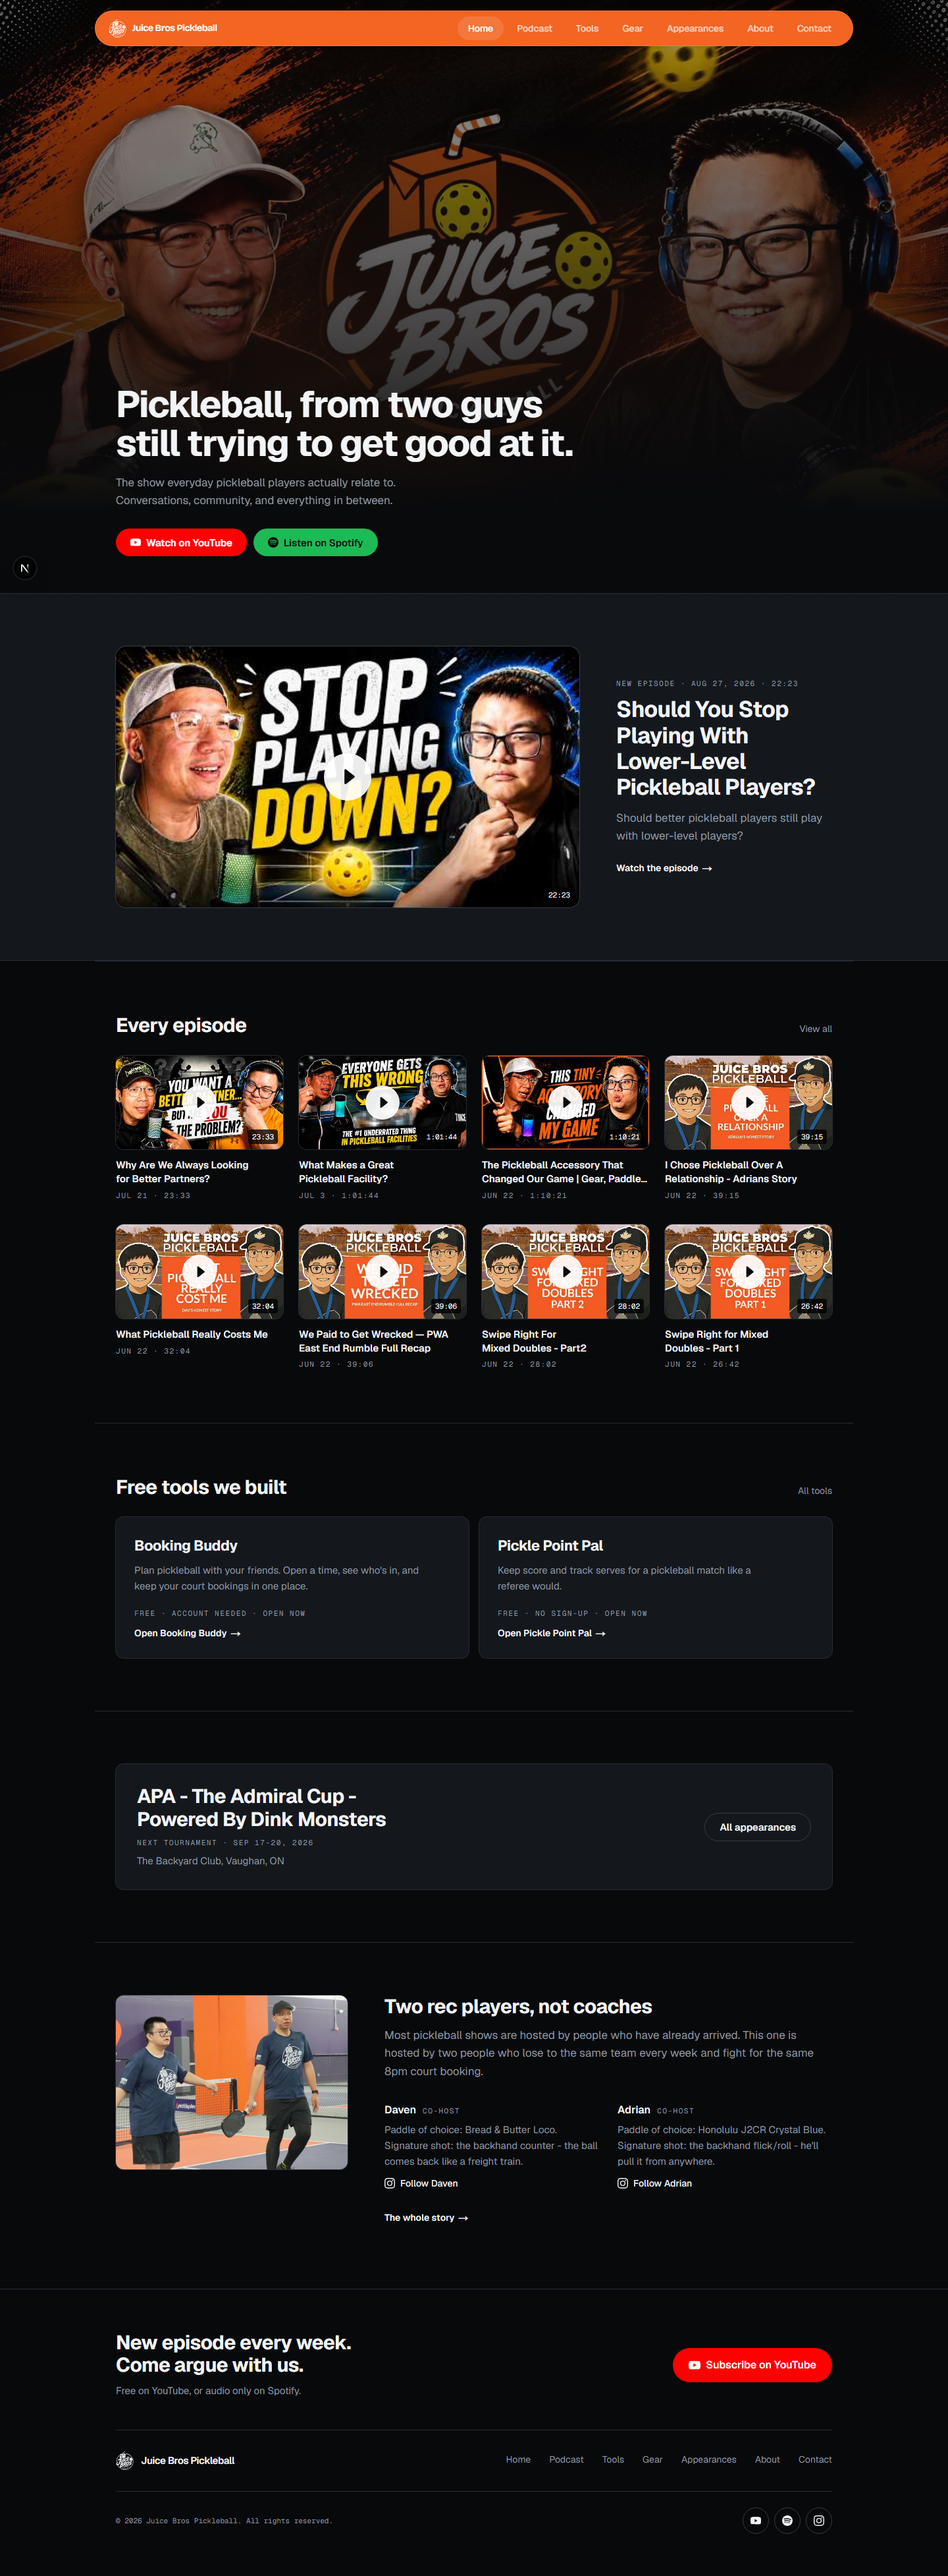
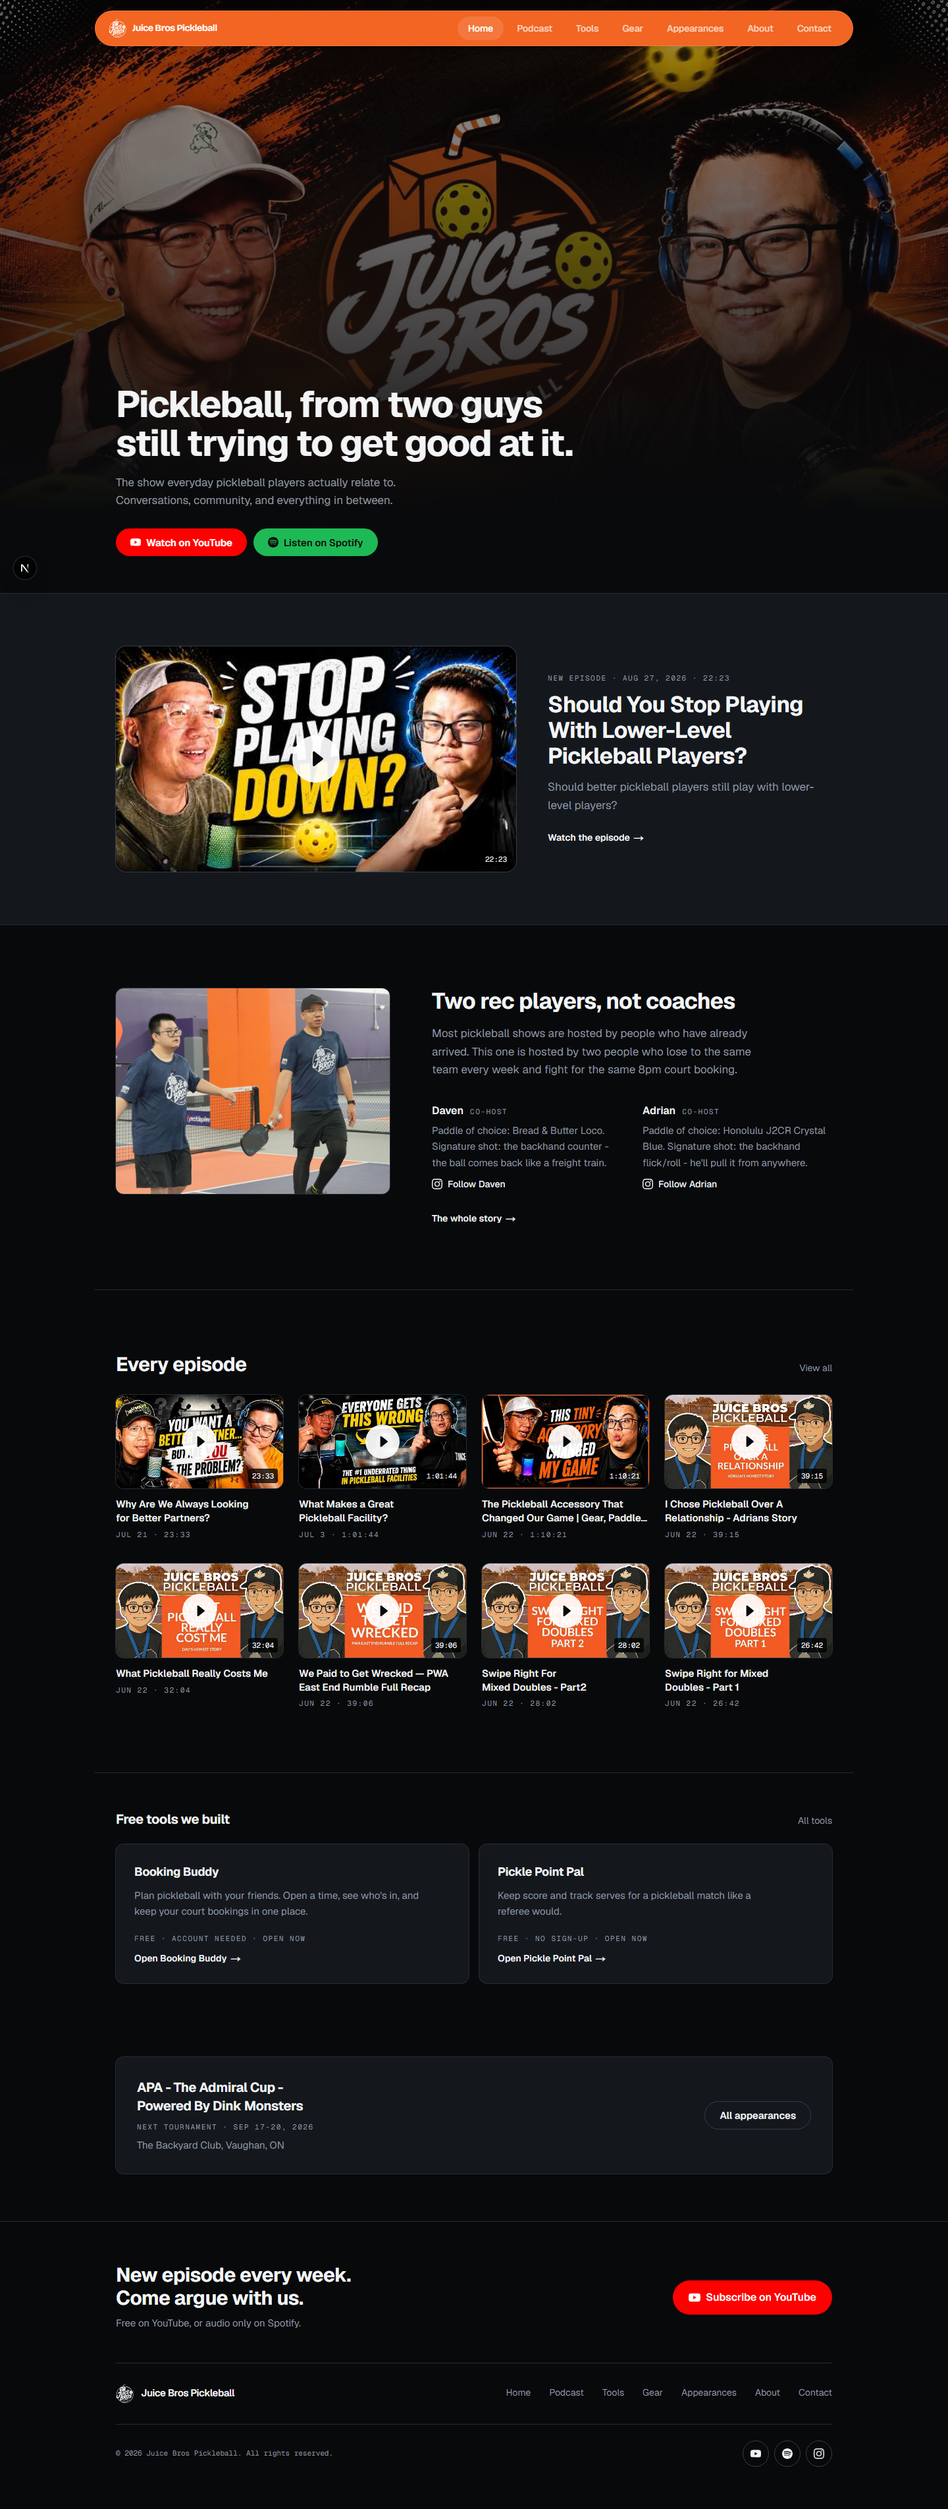
Home: move the hosts up and give the page a rank order
Two changes, both from Adrian. "Two rec players, not coaches" moves from
sixth to third, straight off the Now Playing band: it is the only section
that proves the claim the h1 makes, and at sixth it only ever reached
visitors already convinced. Then: emphasize different sections.

The page had one peak and then a flat plateau — Archive, Free tools, the
tournament, the hosts and Instagram all shipped the same hairline, the
same py-14 sm:py-20 and the same heading size, so nothing outranked
anything. Rank is now encoded in three channels at once, because any one
of them alone reads as an accident:

- Air: major py-16 sm:py-24 (hosts, archive), band py-12 sm:py-16
  lg:py-20, shelf py-10 sm:py-14.
- Heading step: peak clamp(1.5rem,3.4vw,2.125rem) for the Now Playing
  title and the hosts; headline for the archive and the footer close;
  minor 1.25rem for the shelf, with tool names a step below that.
- Composition: the hosts photo widens to 26rem; the Now Playing stage
  settles at 38rem so the title beside it keeps a readable measure
  instead of wrapping to four lines at 1440.

Hairlines now group rather than decorate: one opens the archive, one
opens the shelf, and the three shelf sections run without rules between
them so they read as one supporting zone. The hosts section carries none
at all — the band above it already ends on a border.

DESIGN.md and the surface brief record the three tiers, the hairline
rule, and why the order changed.

diff --git a/src/app/(home)/sections/the-hosts.tsx b/src/app/(home)/sections/the-hosts.tsx
@@ -4,20 +4,29 @@ import { team } from "@/content/team";
 import { InstagramIcon } from "@/components/icons";
 
 /**
- * The two hosts. A category-standard podcast home page carries one, and it is
- * the section that does the positioning work the h1 only gestures at: these
- * are rec players, not coaches.
+ * The two hosts, third on the page and its second peak.
  *
- * The bios in `content/team.ts` are interim copy pending Adrian writing the
- * real ones, and they say so on the page rather than pretending otherwise.
+ * The h1 claims "two guys still trying to get good at it"; this is the only
+ * section that proves it - real names, the on-court photo, the paddle each of
+ * them actually plays and the shot each is known for. Positioning is the one
+ * thing PRODUCT.md says a competitor cannot copy, so it is evidence, not a
+ * footer credit, and it sits directly under the newest episode rather than
+ * below the catalogue where only the already-convinced would reach it.
+ *
+ * It carries no `bx-hair`: it follows the band, whose own bottom border
+ * already draws that line, and a second rule there would double it.
+ *
+ * The page renders each host's `funFact` (paddle and signature shot), which is
+ * real copy. The interim `bio` strings in `content/team.ts` are the About
+ * page's problem, not this section's - nothing here is placeholder.
  */
 export function TheHosts() {
   return (
-    <section className="bx-measure bx-hair py-14 sm:py-20">
+    <section className="bx-measure py-16 sm:py-24">
       {/* The photograph belongs here in this variant. The hero above runs the
           brand banner rather than the on-court shot, so this is the only place
           the two of them appear and it is not a duplicate. */}
-      <div className="grid gap-8 lg:grid-cols-[minmax(0,22rem)_1fr] lg:items-start lg:gap-14">
+      <div className="grid gap-8 lg:grid-cols-[minmax(0,26rem)_1fr] lg:items-start lg:gap-16">
         <figure className="bx-tile aspect-[4/3]">
           {/* eslint-disable-next-line @next/next/no-img-element -- local photo, no next/image optimization needed here */}
           <img
@@ -32,16 +41,16 @@ export function TheHosts() {
         </figure>
 
         <div>
-          <h2 className="bx-h2 text-[clamp(1.375rem,3.2vw,1.875rem)]">
+          <h2 className="bx-h2 text-[clamp(1.5rem,3.4vw,2.125rem)]">
             Two rec players, not coaches
           </h2>
-          <p className="mt-3 text-[1.0625rem] leading-relaxed text-[var(--bx-muted)]">
+          <p className="mt-4 max-w-[46ch] text-[1.0625rem] leading-relaxed text-[var(--bx-muted)]">
             Most pickleball shows are hosted by people who have already arrived.
             This one is hosted by two people who lose to the same team every
             week and fight for the same 8pm court booking.
           </p>
 
-          <dl className="mt-8 grid gap-7 sm:grid-cols-2">
+          <dl className="mt-9 grid gap-8 sm:grid-cols-2">
             {team.map((member) => (
               <div key={member.name}>
                 <dt className="flex items-baseline gap-2.5">

diff --git a/src/app/(home)/sections/free-tools.tsx b/src/app/(home)/sections/free-tools.tsx
@@ -14,9 +14,9 @@ export function FreeTools() {
   if (apps.length === 0) return null;
 
   return (
-    <section className="bx-measure bx-hair py-14 sm:py-20">
+    <section className="bx-measure bx-hair py-10 sm:py-14">
       <div className="flex items-baseline justify-between gap-6">
-        <h2 className="bx-h2 text-[clamp(1.375rem,3.2vw,1.875rem)]">Free tools we built</h2>
+        <h2 className="bx-h2 text-xl">Free tools we built</h2>
         <Link
           href="/tools"
           className="text-sm text-[var(--bx-muted)] transition-colors duration-200 hover:text-[var(--bx-ink)]"
@@ -25,10 +25,10 @@ export function FreeTools() {
         </Link>
       </div>
 
-      <div className="mt-7 grid gap-4 md:grid-cols-2">
+      <div className="mt-6 grid gap-4 md:grid-cols-2">
         {apps.map((app) => (
           <Link key={app.slug} href={app.href} className="bx-panel group flex flex-col p-6 sm:p-7">
-            <h3 className="bx-h2 text-xl transition-colors duration-200 group-hover:text-[var(--bx-muted)] sm:text-[1.375rem]">
+            <h3 className="bx-h2 text-lg transition-colors duration-200 group-hover:text-[var(--bx-muted)]">
               {app.title}
             </h3>
             <p className="mt-2.5 max-w-[46ch] text-[0.9375rem] leading-relaxed text-[var(--bx-muted)]">

diff --git a/src/app/(home)/page.tsx b/src/app/(home)/page.tsx
@@ -6,10 +6,10 @@ import { getEpisodes } from "@/lib/episodes";
 import { getLatestInstagramPosts, INSTAGRAM_POST_COUNT } from "@/lib/instagram";
 import { PhotoHero } from "./sections/photo-hero";
 import { NowPlaying } from "./sections/now-playing";
+import { TheHosts } from "./sections/the-hosts";
 import { Archive } from "./sections/archive";
 import { FreeTools } from "./sections/free-tools";
 import { OnTheRoad } from "./sections/on-the-road";
-import { TheHosts } from "./sections/the-hosts";
 import { FromInstagram } from "./sections/from-instagram";
 import { Foot } from "./sections/foot";
 
@@ -39,10 +39,10 @@ export default async function Home() {
     <div className="bx-dark flex flex-1 flex-col">
       <PhotoHero />
       {newest && <NowPlaying episode={newest} />}
+      <TheHosts />
       <Archive episodes={rest.slice(0, 8)} />
       <FreeTools />
       <OnTheRoad />
-      <TheHosts />
       <FromInstagram posts={instagramPosts} />
       <Foot />
     </div>

diff --git a/src/app/(home)/sections/from-instagram.tsx b/src/app/(home)/sections/from-instagram.tsx
@@ -9,9 +9,9 @@ export function FromInstagram({ posts }: { posts: InstagramPost[] }) {
   if (posts.length === 0) return null;
 
   return (
-    <section className="bx-measure bx-hair py-14 sm:py-20">
+    <section className="bx-measure py-10 sm:py-14">
       <div className="flex items-baseline justify-between gap-6">
-        <h2 className="bx-h2 text-[clamp(1.375rem,3.2vw,1.875rem)]">Between episodes</h2>
+        <h2 className="bx-h2 text-xl">Between episodes</h2>
         <a
           href={siteConfig.links.instagram}
           target="_blank"
@@ -22,7 +22,7 @@ export function FromInstagram({ posts }: { posts: InstagramPost[] }) {
         </a>
       </div>
 
-      <ul className="mt-7 grid grid-cols-3 gap-3 lg:grid-cols-6">
+      <ul className="mt-6 grid grid-cols-3 gap-3 lg:grid-cols-6">
         {posts.map((post) => (
           <li key={post.id}>
             <a

diff --git a/src/app/(home)/sections/on-the-road.tsx b/src/app/(home)/sections/on-the-road.tsx
@@ -12,10 +12,10 @@ export function OnTheRoad() {
   if (!next) return null;
 
   return (
-    <section className="bx-measure bx-hair py-14 sm:py-20">
+    <section className="bx-measure py-10 sm:py-14">
       <div className="bx-panel flex flex-col gap-6 p-6 sm:flex-row sm:items-center sm:justify-between sm:p-8">
         <div>
-          <h2 className="bx-h2 max-w-[26ch] text-[clamp(1.375rem,3.2vw,1.875rem)]">{next.name}</h2>
+          <h2 className="bx-h2 max-w-[26ch] text-xl">{next.name}</h2>
           <p className="bx-meta mt-2.5">
             Next tournament
             <span aria-hidden> · </span>

diff --git a/src/app/(home)/sections/now-playing.tsx b/src/app/(home)/sections/now-playing.tsx
@@ -21,7 +21,7 @@ export function NowPlaying({ episode }: { episode: Episode }) {
   return (
     <section className="bx-band">
       <div className="bx-measure py-12 sm:py-16 lg:py-20">
-        <div className="grid gap-7 lg:grid-cols-[minmax(0,44rem)_1fr] lg:items-center lg:gap-14">
+        <div className="grid gap-7 lg:grid-cols-[minmax(0,38rem)_1fr] lg:items-center lg:gap-12">
           <Link
             href={`/podcast/${episode.slug}`}
             className="bx-tile bx-stage group aspect-video"

diff --git a/src/app/(home)/sections/archive.tsx b/src/app/(home)/sections/archive.tsx
@@ -17,7 +17,7 @@ export function Archive({ episodes }: { episodes: Episode[] }) {
   if (episodes.length === 0) return null;
 
   return (
-    <section className="bx-measure bx-hair py-14 sm:py-20">
+    <section className="bx-measure bx-hair py-16 sm:py-24">
       <div className="flex items-baseline justify-between gap-6">
         <h2 className="bx-h2 text-[clamp(1.375rem,3.2vw,1.875rem)]">Every episode</h2>
         <Link

diff --git a/DESIGN.md b/DESIGN.md
@@ -132,7 +132,7 @@ fighting them.
 
 **Key Characteristics:**
 - Near-black page ground, one raised surface set a visible step above it (~1.2:1) with rings at ~1.4:1; no third "quiet" grey step for ink
-- The page has one peak below the hero: Now Playing on a full-bleed raised band, the stage at full column width
+- The page has two peaks below the hero: Now Playing on a full-bleed raised band, then the hosts; the archive follows, and the rest is a compressed shelf
 - Brand orange is the floating pill nav's ground and the mobile corner button's fill — the global chrome, never a private bar, and never the subscribe colour
 - Two platform colours (YouTube red, Spotify green) carry their own ink decisions, reasoned from contrast math and each platform's own brand guidance
 - One shared hover/focus gesture (lift + brighten) used identically everywhere a thumbnail appears
@@ -183,20 +183,32 @@ The palette is a near-black neutral scale plus brand orange and two destination-
 - **Body Small** (400, 0.9375rem, line-height ~1.6): supporting copy — card descriptions, footer text, host bios — used wherever body copy needs to sit a step down from the lead line without dropping into label territory.
 - **Label** (400, 0.6875rem, letter-spacing 0.14em, uppercase, tabular numerals, Geist Mono, muted color): dates, runtimes, counts, and the "New episode" / "Next tournament" style kickers that sit directly beside real data. Never used for body copy.
 
-Every section heading on the page sits on the Headline step (`clamp(1.375rem, 3.2vw, 1.875rem)`), and the Now Playing title takes one step more (`clamp(1.5rem, 3.4vw, 2.125rem)`) — the one heading below the hero that is allowed to be louder than its siblings, because its section is the page's peak.
+Section headings run on three steps, and the step is what tells a visitor how much a section matters:
+
+- **Peak** (`clamp(1.5rem, 3.4vw, 2.125rem)`): the two sections the page is actually for — the Now Playing title and "Two rec players, not coaches".
+- **Headline** (`clamp(1.375rem, 3.2vw, 1.875rem)`): the episode archive, and the footer's closing line.
+- **Minor** (`1.25rem`): the supporting shelf — Free tools, the next tournament, the Instagram strip. Inside a shelf section, content headings drop a step further (`1.125rem` on the tool names) so the local hierarchy still holds.
 
 ### Named Rules
 **The Metadata-Only Mono Rule.** Geist Mono (`.bx-meta`) is reserved for machine-adjacent facts — a date, a runtime, a count — never for prose, section titles, or decorative labels. If a mono-styled string doesn't come from real data, it doesn't belong in `.bx-meta`.
 
 ## Layout
 
-One `bx-measure` container (max-width 72rem, centered, 1.25rem inline padding below 640px, 2rem above) governs every section's width. Sections stack vertically with a consistent rhythm: `py-14` (3.5rem) on mobile, `py-20` (5rem) from `sm:` up, separated by a single hairline (`.bx-hair`, 1px `bx-line-soft` top border) rather than background-color changes or shadows.
+One `bx-measure` container (max-width 72rem, centered, 1.25rem inline padding below 640px, 2rem above) governs every section's width.
+
+**Vertical rhythm encodes rank; it is not one repeated value.** Three tiers, matched to the heading steps above and to the page's job (audience growth on YouTube and Spotify):
+
+- **Major** (`py-16 sm:py-24`): the hosts and the archive — the positioning proof and the catalogue.
+- **Band** (`py-12 sm:py-16 lg:py-20` inside `.bx-band`): Now Playing.
+- **Shelf** (`py-10 sm:py-14`): Free tools, the next tournament, the Instagram strip.
+
+**Hairlines group, they do not decorate.** `.bx-hair` (1px `bx-line-soft` top border) opens the archive and opens the shelf, and that is all. The three shelf sections run with no rules between them so they read as one supporting zone rather than three peers of the archive, and the hosts section carries no hairline at all because the band directly above it already ends on a border — a second rule there would double it. Adding a hairline to every section is what made the first build read as a flat plateau of equals.
 
 Grids follow a responsive step-up: the episode archive runs 1 → 2 (`sm`) → 3 (`lg`) → 4 (`xl`) columns; the Instagram strip runs 3 → 6 columns; the tools grid runs 1 → 2 columns. Gaps hold to a small set of steps: `gap-3` (0.75rem) for the tightest grid (Instagram), `gap-4`–`gap-6` for card grids, `gap-8`–`gap-14` between major layout blocks. All spacing values observed on the page are 4px-scale multiples, consistent with the direction contract's "4px spacing system."
 
 **The header is the global floating pill.** `SiteHeader` — the same component every marketing route renders — is `fixed top-0` on `/` (`hasOverlayHero`): a `rounded-full` brand-orange pill at `max-w-6xl` with `pt-4` above it, floating over the hero and staying fixed down the page. The home page has no private bar; `SiteChromeSlot` mounts the global header on `/` and suppresses only the global footer. Below `sm` the header is an in-flow orange identity strip (wordmark only) plus a fixed corner button (bottom-right, `size-14`, brand-orange fill) that opens a Sheet panel anchored to the same corner.
 
-**Now Playing is a full-bleed band.** `.bx-band` paints the raised surface edge to edge with a hairline above and below, and the section's `bx-measure` sits inside it. It is the page's one peak below the hero: the scroll arrives at a lighter passage with the stage at up to 44rem (`lg:grid-cols-[minmax(0,44rem)_1fr]`), and every other section returns to the page ground. Do not put a second band on the page.
+**Now Playing is a full-bleed band.** `.bx-band` paints the raised surface edge to edge with a hairline above and below, and the section's `bx-measure` sits inside it. It is the page's one peak below the hero: the scroll arrives at a lighter passage with the stage at up to 38rem (`lg:grid-cols-[minmax(0,38rem)_1fr]`, sized so the title beside it still has a readable measure rather than wrapping to four lines), and every other section returns to the page ground. Do not put a second band on the page.
 
 **The hero is a two-layout component**, not one fixed composition (`src/app/(home)/sections/photo-hero.tsx`), and the banner photo of both hosts is a pinned asset — Adrian chose it over a stage-first hero, and it owns the full first screen (`sm:min-h-[100svh]`) under the floating pill. Wide (`sm:` and up), the banner photo is the section's own background (`sm:absolute sm:inset-0 sm:-z-10`) with the h1 and CTAs laid over it near the bottom, on a ramp that is fully opaque for its lowest 14% so the copy never shares a band with the banner's own baked-in type strip. Narrow, the banner is a plain in-flow block (a fixed 14rem-tall strip) and the copy sits beneath it, on the page's own dark ground, not on top of the image. This is a deliberate crop decision, not a simplification: the banner is a wide two-shot composed with the hosts on the left and right thirds and clear space in the middle, so a phone-shaped crop of that same image puts the hosts off-frame and leaves the overlay illegible exactly where most visitors are.
 

diff --git a/.impeccable/surfaces/src-app-home.md b/.impeccable/surfaces/src-app-home.md
@@ -72,7 +72,16 @@ competes with them.
 
 STORY: A rec player lands, reads in one line that this show is made by people at
 their own level, sees the newest episode already sitting there ready to play,
-starts it - or scans fourteen more and subscribes.
+starts it - or meets the two hosts, believes the claim the h1 made, and scans
+fourteen more before subscribing.
+
+Section order, and the rank it encodes (set 2026-09-06): hero, Now Playing,
+**the hosts**, the archive, then a compressed shelf of tools / next tournament /
+Instagram. The hosts moved up from sixth: it is the only section that proves the
+positioning rather than asserting it, and at sixth it only ever reached visitors
+who were already convinced. Rank is carried in three channels at once - vertical
+air, heading step, and composition scale - because any one of them alone reads
+as an accident.
 
 FIRST VIEWPORT: The global floating orange pill nav over the full-bleed
 banner photo of both hosts, which owns the whole first screen. Low on the
